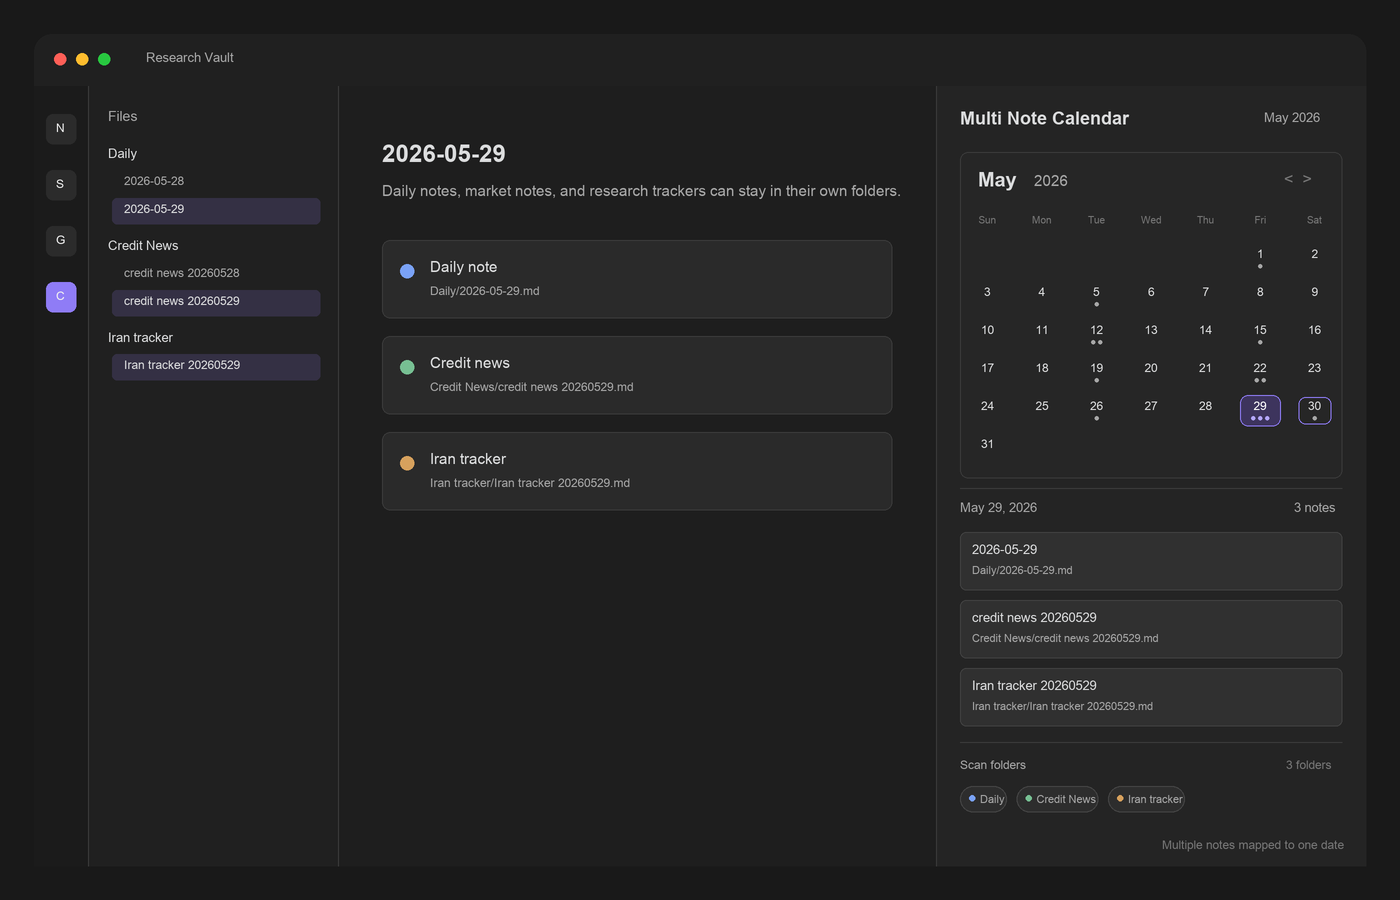
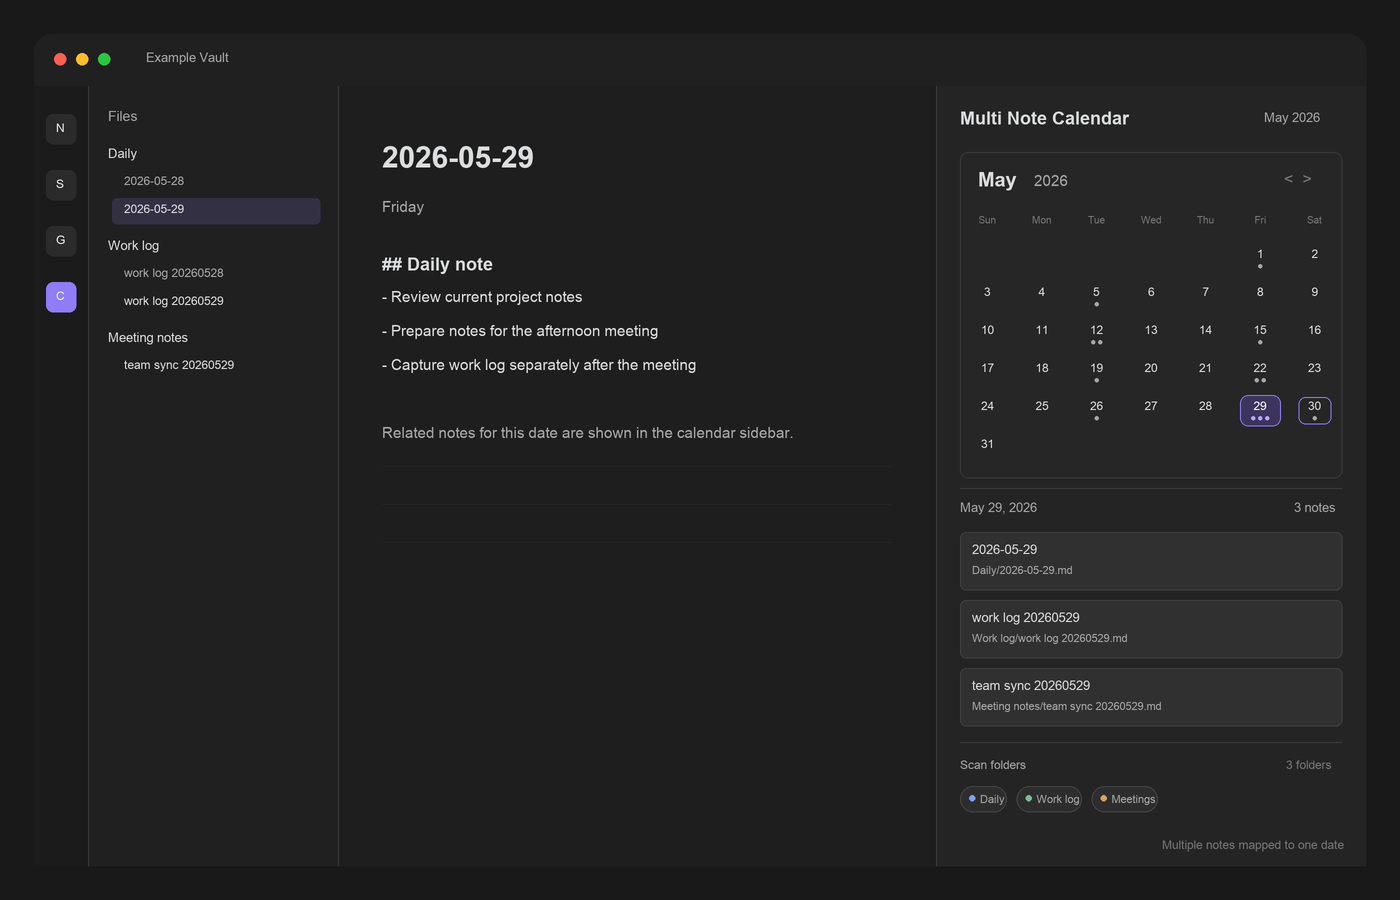
Use generic notes in preview screenshot

diff --git a/README.md b/README.md
@@ -7,8 +7,8 @@ Instead of assuming that one calendar date maps to one file, it can gather match
 Example matches for one date:
 
 - `Daily/2026-05-29.md`
-- `Credit News/credit news 20260529.md`
-- `Iran tracker/Iran 20260529.md`
+- `Work log/work log 20260529.md`
+- `Meeting notes/team sync 20260529.md`
 
 ![Multi Note Calendar preview](./images/multi-note-calendar.png)
 